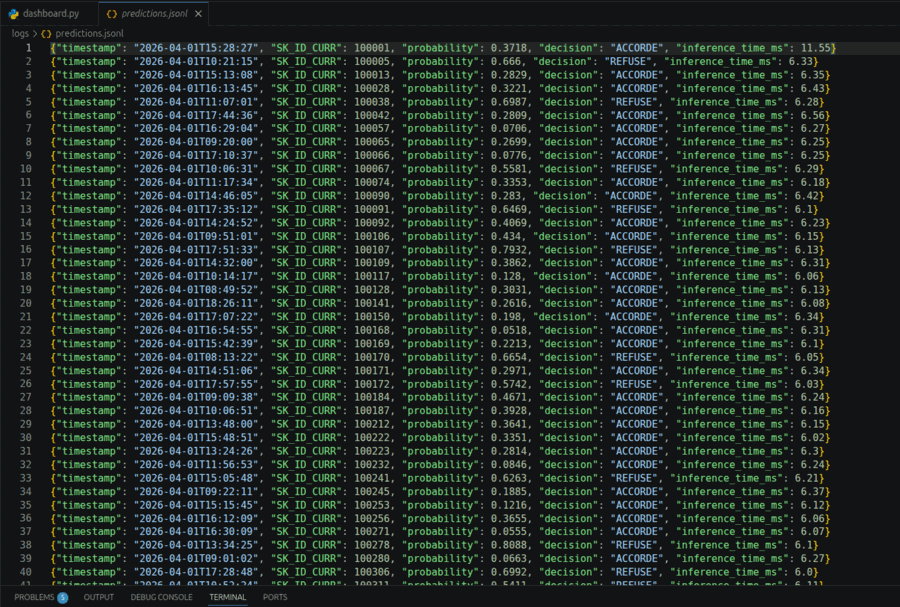
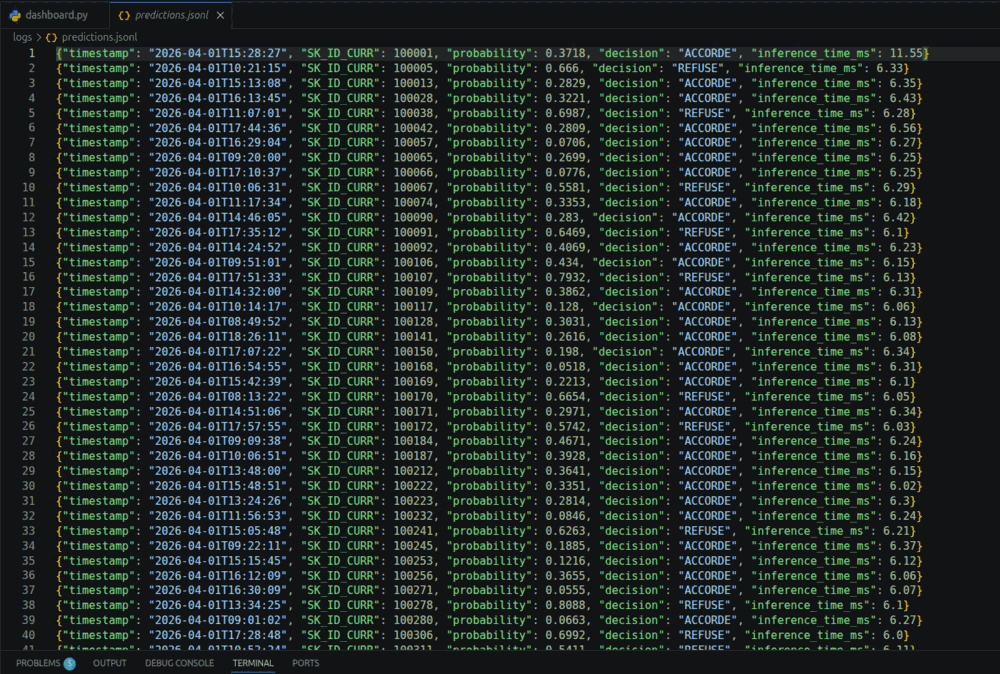
feat(projets): une image par projet, tirée du livrable d'origine (#17)
Six projets sur neuf n'affichaient rien. Chaque carte porte désormais une
figure ou une capture venue du projet lui-même : nuage surface/consommation
pour Seattle Energy, beeswarm SHAP pour TechNova, runs MLflow triés par coût
métier pour Prêt à Dépenser, tableau de bord du pipeline pour CheckItAI,
courbes de récompense DQN pour Astro Dynamics, triptyque de segmentation pour
Fashion-Insta. Rien n'est dessiné pour le site.

Les couvertures sont produites en 1200x500, le rapport que la feuille de style
impose : le cadrage se décide à la fabrication, plus au navigateur, et ne
change plus d'une largeur d'écran à l'autre.

tools/images.json note pour chaque image son projet, sa figure, son cadrage ;
tools/build_images.py applique la recette. Les sources vivant hors du dépôt,
le script signale celles qu'il ne trouve pas au lieu de s'arrêter.

Au passage :
- toutes les images portent width et height, donc la page ne saute plus au
  chargement des captures ;
- passage en WebP là où il gagne, PNG quantifié pour la capture de logs, où
  il gagne au contraire de 50 Ko ;
- un portrait en tête du panneau de faits, rond en Standard, à angle vif en
  Game.

diff --git a/index.html b/index.html
@@ -468,6 +468,10 @@ document.documentElement.classList.add('js');
   .about-grid { display: grid; grid-template-columns: 1.5fr 1fr; gap: 46px; align-items: start; }
   .about-grid .lead { font-size: 1.22rem; color: var(--ink); }
   .about-grid p + p { margin-top: 15px; }
+  .ident { display: flex; align-items: center; gap: 15px; padding: 20px 24px; border-bottom: 1px solid var(--border); }
+  .ident img { width: 74px; height: 74px; flex: none; object-fit: cover; border: 1px solid var(--border-2); filter: saturate(.9); }
+  .ident .nm { color: var(--ink); font-weight: 700; font-size: 15.5px; }
+  .ident .rl { display: block; margin-top: 3px; font-family: var(--font-mono); font-size: 11.5px; letter-spacing: .04em; color: var(--ember); }
   .facts { list-style: none; margin: 0; padding: 24px; display: grid; gap: 15px; }
   .facts li { display: flex; gap: 12px; font-size: 14.5px; }
   .facts svg { width: 17px; height: 17px; color: var(--ember); flex: none; margin-top: 3px; }
@@ -499,13 +503,13 @@ document.documentElement.classList.add('js');
   .tags { display: flex; flex-wrap: wrap; gap: 7px; margin-top: 16px; }
   .tag { font-family: var(--font-mono); font-size: 11.5px; color: var(--ink-dim); background: var(--surface-2); border: 1px solid var(--border); padding: 4px 9px; }
   .cover { margin-top: 16px; border: 1px solid var(--border); overflow: hidden; filter: saturate(.8) contrast(1.02); }
-  .cover img { width: 100%; height: 158px; object-fit: cover; object-position: top center; }
+  .cover img { display: block; width: 100%; height: auto; aspect-ratio: 12 / 5; object-fit: cover; }
   .proj-links { display: flex; gap: 16px; margin-top: 18px; padding-top: 16px; border-top: 1px solid var(--border); }
   .proj-links a { display: inline-flex; align-items: center; gap: 6px; font-family: var(--font-mono); font-size: 12px; letter-spacing: .06em; text-transform: uppercase; color: var(--ink-dim); }
   .proj-links a:hover { color: var(--ember); }
   .proj-links svg { width: 14px; height: 14px; }
   .shot { border: 1px solid var(--border); overflow: hidden; background: var(--surface-2); filter: saturate(.85); }
-  .shot img { width: 100%; }
+  .shot img { display: block; width: 100%; height: auto; }
 
   /* ---------- PROJET PHARE ---------- */
   .flag { padding: 0; }
@@ -988,6 +992,8 @@ document.documentElement.classList.add('js');
   /* Une capture à angles vifs dans une carte arrondie trahit le montage. */
   html.fx-standard .cover,
   html.fx-standard .shot { border-radius: 9px; }
+  /* Le mode Game garde l'angle vif de son HUD, le Standard arrondit. */
+  html.fx-standard .ident img { border-radius: 50%; }
   html.fx-standard .cmdk { box-shadow: var(--sh-2); }
   html.fx-standard .sec-head .idx {
     display: inline-block; padding: 3px 10px; border: 1px solid var(--border);
@@ -1524,7 +1530,12 @@ document.documentElement.classList.add('js');
           <p class="muted">J'ai couvert toute la chaîne : modélisation (scoring, classification, computer vision), industrialisation MLOps (API, Docker, CI/CD, monitoring de drift) et systèmes GenAI (RAG, évaluation LLM).</p>
           <p class="muted">Ma conviction : un modèle ne vaut que <b>servi, surveillé et maintenable</b>. La valeur naît en production, pas dans le notebook. Disponible en freelance ou en CDI sur les sujets MLOps et LLMOps, les plus demandés de 2026.</p>
         </div>
-        <div class="panel"><ul class="facts">
+        <div class="panel">
+          <div class="ident">
+            <img src="assets/portrait-clement-reboul.webp" width="240" height="240" alt="Portrait de Clément Reboul" loading="lazy" decoding="async">
+            <div><span class="nm">Clément Reboul</span><span class="rl">AI Engineer · MLOps &amp; GenAI</span></div>
+          </div>
+          <ul class="facts">
           <li><svg viewBox="0 0 24 24" fill="none" stroke="currentColor" stroke-width="2"><path d="M20 6L9 17l-5-5"/></svg><span><b>Disponibilité</b> - freelance ou CDI, MLOps / GenAI</span></li>
           <li><svg viewBox="0 0 24 24" fill="none" stroke="currentColor" stroke-width="2"><path d="M20 6L9 17l-5-5"/></svg><span><b>Expérience</b> - 5 ans en dev web, dont lead dev</span></li>
           <li><svg viewBox="0 0 24 24" fill="none" stroke="currentColor" stroke-width="2"><path d="M20 6L9 17l-5-5"/></svg><span><b>Stack</b> - Python, FastAPI, Docker, MLflow, LangChain</span></li>
@@ -1609,7 +1620,7 @@ document.documentElement.classList.add('js');
                 <a href="#projet-phare"><svg viewBox="0 0 24 24" fill="none" stroke="currentColor" stroke-width="2"><path d="M5 12h14M13 6l6 6-6 6"/></svg> Détails</a>
               </div>
             </div>
-            <div class="shot"><img src="assets/mlops-dashboard.png" alt="Dashboard Streamlit de monitoring : distribution des scores, décisions, latence." loading="lazy"></div>
+            <div class="shot"><img src="assets/mlops-dashboard.webp" width="1200" height="438" alt="Dashboard Streamlit de monitoring : distribution des scores, décisions, latence." loading="lazy" decoding="async"></div>
           </div>
         </article>
 
@@ -1618,6 +1629,7 @@ document.documentElement.classList.add('js');
           <h3>Seattle Energy</h3><p class="role">Énergie &amp; CO2 des bâtiments - API déployée</p>
           <p class="desc">Prédiction multi-cibles : consommation énergétique (Random Forest, R² 0,73) et émissions CO2 (LightGBM, R² 0,92) des bâtiments de Seattle. Modèles servis par une API FastAPI conteneurisée et déployée sur Hugging Face Spaces.</p>
           <div class="tags"><span class="tag">Random Forest</span><span class="tag">LightGBM</span><span class="tag">FastAPI</span><span class="tag">Docker</span></div>
+          <div class="cover"><img src="assets/seattle-energy.webp" width="1200" height="500" alt="Surface des bâtiments et consommation d'énergie en échelle logarithmique : un point par bâtiment, coloré par ses émissions de CO2." loading="lazy" decoding="async"></div>
           <div class="proj-links">
             <a href="https://github.com/clementRbl/deploy-ml" target="_blank" rel="noopener"><svg viewBox="0 0 24 24" fill="currentColor"><path d="M12 2C6.48 2 2 6.58 2 12.25c0 4.53 2.87 8.37 6.84 9.73.5.09.68-.22.68-.49v-1.7c-2.78.62-3.37-1.36-3.37-1.36-.45-1.18-1.11-1.49-1.11-1.49-.91-.64.07-.62.07-.62 1 .07 1.53 1.06 1.53 1.06.9 1.58 2.36 1.12 2.93.86.09-.67.35-1.12.63-1.38-2.22-.26-4.56-1.14-4.56-5.07 0-1.12.39-2.03 1.03-2.75-.1-.26-.45-1.3.1-2.71 0 0 .84-.27 2.75 1.05a9.3 9.3 0 015 0c1.91-1.32 2.75-1.05 2.75-1.05.55 1.41.2 2.45.1 2.71.64.72 1.03 1.63 1.03 2.75 0 3.94-2.34 4.81-4.57 5.06.36.32.68.94.68 1.9v2.82c0 .27.18.59.69.49A10.02 10.02 0 0022 12.25C22 6.58 17.52 2 12 2z"/></svg> Code</a>
             <a href="https://clementrbl-deploy-ml.hf.space/docs" target="_blank" rel="noopener"><svg viewBox="0 0 24 24" fill="none" stroke="currentColor" stroke-width="2"><path d="M15 3h6v6M10 14L21 3M18 13v6a2 2 0 01-2 2H5a2 2 0 01-2-2V8a2 2 0 012-2h6"/></svg> API</a>
@@ -1630,6 +1642,7 @@ document.documentElement.classList.add('js');
           <h3>TechNova</h3><p class="role">Attrition RH - causes de démission</p>
           <p class="desc">HR analytics pour une ESN de 1 470 salariés (turnover 16 %) : classification LightGBM (ROC-AUC 0,80) et interprétation des facteurs de départ par SHAP, du diagnostic métier aux recommandations.</p>
           <div class="tags"><span class="tag">LightGBM</span><span class="tag">SHAP</span><span class="tag">scikit-learn</span></div>
+          <div class="cover"><img src="assets/technova-shap.webp" width="1200" height="500" alt="Graphique SHAP : heures supplémentaires, participation au PEE et satisfaction globale dominent la probabilité de départ." loading="lazy" decoding="async"></div>
           <div class="proj-links"><a href="https://github.com/clementRbl/TechNova-Partners" target="_blank" rel="noopener"><svg viewBox="0 0 24 24" fill="currentColor"><path d="M12 2C6.48 2 2 6.58 2 12.25c0 4.53 2.87 8.37 6.84 9.73.5.09.68-.22.68-.49v-1.7c-2.78.62-3.37-1.36-3.37-1.36-.45-1.18-1.11-1.49-1.11-1.49-.91-.64.07-.62.07-.62 1 .07 1.53 1.06 1.53 1.06.9 1.58 2.36 1.12 2.93.86.09-.67.35-1.12.63-1.38-2.22-.26-4.56-1.14-4.56-5.07 0-1.12.39-2.03 1.03-2.75-.1-.26-.45-1.3.1-2.71 0 0 .84-.27 2.75 1.05a9.3 9.3 0 015 0c1.91-1.32 2.75-1.05 2.75-1.05.55 1.41.2 2.45.1 2.71.64.72 1.03 1.63 1.03 2.75 0 3.94-2.34 4.81-4.57 5.06.36.32.68.94.68 1.9v2.82c0 .27.18.59.69.49A10.02 10.02 0 0022 12.25C22 6.58 17.52 2 12 2z"/></svg> Code</a></div>
         </article>
 
@@ -1638,7 +1651,7 @@ document.documentElement.classList.add('js');
           <h3>Puls<span class="dash">-</span>Events</h3><p class="role">Chatbot RAG d'événements culturels</p>
           <p class="desc">RAG de bout en bout : ingestion (16 000+ événements), vectorisation Faiss, chaîne LangChain + Mistral avec garde-fous anti-hallucination, API FastAPI et évaluation Ragas.</p>
           <div class="tags"><span class="tag">LangChain</span><span class="tag">Faiss</span><span class="tag">Mistral</span><span class="tag">Ragas</span></div>
-          <div class="cover"><img src="assets/rag-architecture.png" alt="Architecture RAG Puls-Events : ingestion, vectorisation Faiss, chaîne LangChain + Mistral, API." loading="lazy"></div>
+          <div class="cover"><img src="assets/rag-architecture.webp" width="1200" height="500" alt="Architecture RAG Puls-Events : ingestion, vectorisation Faiss, chaîne LangChain + Mistral, API." loading="lazy" decoding="async"></div>
           <div class="proj-links"><a href="https://github.com/clementRbl/pull-events" target="_blank" rel="noopener"><svg viewBox="0 0 24 24" fill="currentColor"><path d="M12 2C6.48 2 2 6.58 2 12.25c0 4.53 2.87 8.37 6.84 9.73.5.09.68-.22.68-.49v-1.7c-2.78.62-3.37-1.36-3.37-1.36-.45-1.18-1.11-1.49-1.11-1.49-.91-.64.07-.62.07-.62 1 .07 1.53 1.06 1.53 1.06.9 1.58 2.36 1.12 2.93.86.09-.67.35-1.12.63-1.38-2.22-.26-4.56-1.14-4.56-5.07 0-1.12.39-2.03 1.03-2.75-.1-.26-.45-1.3.1-2.71 0 0 .84-.27 2.75 1.05a9.3 9.3 0 015 0c1.91-1.32 2.75-1.05 2.75-1.05.55 1.41.2 2.45.1 2.71.64.72 1.03 1.63 1.03 2.75 0 3.94-2.34 4.81-4.57 5.06.36.32.68.94.68 1.9v2.82c0 .27.18.59.69.49A10.02 10.02 0 0022 12.25C22 6.58 17.52 2 12 2z"/></svg> Code</a></div>
         </article>
 
@@ -1647,7 +1660,7 @@ document.documentElement.classList.add('js');
           <h3>BrainScanAI</h3><p class="role">Détection de tumeurs sur IRM</p>
           <p class="desc">Apprentissage semi-supervisé sur un large corpus non labellisé : features ResNet-50, clustering (GMM), pré-entraînement sur labels faibles. Audit de fuite (dédup MD5) - recall cancer 0,90–1,00.</p>
           <div class="tags"><span class="tag">PyTorch</span><span class="tag">ResNet-50</span><span class="tag">clustering</span><span class="tag">SSL</span></div>
-          <div class="cover"><img src="assets/brainscan-comparison.png" alt="Comparaison supervisé vs semi-supervisé : accuracy, F1, AUC, recall cancer." loading="lazy"></div>
+          <div class="cover"><img src="assets/brainscan-comparison.webp" width="1200" height="500" alt="Matrices de confusion des deux phases et courbes ROC : supervisé AUC 0,99, semi-supervisé AUC 0,98." loading="lazy" decoding="async"></div>
           <div class="proj-links"><a href="https://github.com/clementRbl/curelytics-ia" target="_blank" rel="noopener"><svg viewBox="0 0 24 24" fill="currentColor"><path d="M12 2C6.48 2 2 6.58 2 12.25c0 4.53 2.87 8.37 6.84 9.73.5.09.68-.22.68-.49v-1.7c-2.78.62-3.37-1.36-3.37-1.36-.45-1.18-1.11-1.49-1.11-1.49-.91-.64.07-.62.07-.62 1 .07 1.53 1.06 1.53 1.06.9 1.58 2.36 1.12 2.93.86.09-.67.35-1.12.63-1.38-2.22-.26-4.56-1.14-4.56-5.07 0-1.12.39-2.03 1.03-2.75-.1-.26-.45-1.3.1-2.71 0 0 .84-.27 2.75 1.05a9.3 9.3 0 015 0c1.91-1.32 2.75-1.05 2.75-1.05.55 1.41.2 2.45.1 2.71.64.72 1.03 1.63 1.03 2.75 0 3.94-2.34 4.81-4.57 5.06.36.32.68.94.68 1.9v2.82c0 .27.18.59.69.49A10.02 10.02 0 0022 12.25C22 6.58 17.52 2 12 2z"/></svg> Code</a></div>
         </article>
 
@@ -1656,6 +1669,7 @@ document.documentElement.classList.add('js');
           <h3>Prêt à Dépenser</h3><p class="role">Scoring crédit &amp; tracking MLflow</p>
           <p class="desc">Comparaison de 5 modèles en validation croisée, optimisation d'un coût métier asymétrique et du seuil, interprétabilité SHAP, tracking complet MLflow (params, métriques, registry).</p>
           <div class="tags"><span class="tag">LightGBM</span><span class="tag">MLflow</span><span class="tag">SHAP</span><span class="tag">scikit-learn</span></div>
+          <div class="cover"><img src="assets/pret-mlflow.webp" width="1200" height="500" alt="Interface MLflow : les runs comparés, triés par coût métier, chacun avec son seuil et sa stratégie de validation croisée." loading="lazy" decoding="async"></div>
           <div class="proj-links"><a href="https://github.com/clementRbl/pret-a-depenser" target="_blank" rel="noopener"><svg viewBox="0 0 24 24" fill="currentColor"><path d="M12 2C6.48 2 2 6.58 2 12.25c0 4.53 2.87 8.37 6.84 9.73.5.09.68-.22.68-.49v-1.7c-2.78.62-3.37-1.36-3.37-1.36-.45-1.18-1.11-1.49-1.11-1.49-.91-.64.07-.62.07-.62 1 .07 1.53 1.06 1.53 1.06.9 1.58 2.36 1.12 2.93.86.09-.67.35-1.12.63-1.38-2.22-.26-4.56-1.14-4.56-5.07 0-1.12.39-2.03 1.03-2.75-.1-.26-.45-1.3.1-2.71 0 0 .84-.27 2.75 1.05a9.3 9.3 0 015 0c1.91-1.32 2.75-1.05 2.75-1.05.55 1.41.2 2.45.1 2.71.64.72 1.03 1.63 1.03 2.75 0 3.94-2.34 4.81-4.57 5.06.36.32.68.94.68 1.9v2.82c0 .27.18.59.69.49A10.02 10.02 0 0022 12.25C22 6.58 17.52 2 12 2z"/></svg> Code</a></div>
         </article>
 
@@ -1664,6 +1678,7 @@ document.documentElement.classList.add('js');
           <h3>CheckItAI</h3><p class="role">Pipeline d'acquisition multimodale</p>
           <p class="desc">Pipeline ETL reproductible (texte + image) pour un détecteur de fake news : extraction automatisée, transformation, orchestration Airflow, chargement PostgreSQL, dashboard KPI et plan de monitoring.</p>
           <div class="tags"><span class="tag">Airflow</span><span class="tag">PostgreSQL</span><span class="tag">Docker</span><span class="tag">Streamlit</span></div>
+          <div class="cover"><img src="assets/checkitai-dashboard.webp" width="1200" height="500" alt="Tableau de bord du pipeline : 29 publications retenues, 90 % de validité, exécution complète en 0,99 seconde." loading="lazy" decoding="async"></div>
           <div class="proj-links"><a href="https://github.com/clementRbl/checkitai" target="_blank" rel="noopener"><svg viewBox="0 0 24 24" fill="currentColor"><path d="M12 2C6.48 2 2 6.58 2 12.25c0 4.53 2.87 8.37 6.84 9.73.5.09.68-.22.68-.49v-1.7c-2.78.62-3.37-1.36-3.37-1.36-.45-1.18-1.11-1.49-1.11-1.49-.91-.64.07-.62.07-.62 1 .07 1.53 1.06 1.53 1.06.9 1.58 2.36 1.12 2.93.86.09-.67.35-1.12.63-1.38-2.22-.26-4.56-1.14-4.56-5.07 0-1.12.39-2.03 1.03-2.75-.1-.26-.45-1.3.1-2.71 0 0 .84-.27 2.75 1.05a9.3 9.3 0 015 0c1.91-1.32 2.75-1.05 2.75-1.05.55 1.41.2 2.45.1 2.71.64.72 1.03 1.63 1.03 2.75 0 3.94-2.34 4.81-4.57 5.06.36.32.68.94.68 1.9v2.82c0 .27.18.59.69.49A10.02 10.02 0 0022 12.25C22 6.58 17.52 2 12 2z"/></svg> Code</a></div>
         </article>
 
@@ -1672,6 +1687,7 @@ document.documentElement.classList.add('js');
           <h3>Astro Dynamics</h3><p class="role">Agent RL - atterrisseur lunaire</p>
           <p class="desc">Entraînement d'un agent DQN sur LunarLander (Gymnasium), architecture client/serveur (API FastAPI + visualisation Streamlit) et enregistrement vidéo des atterrissages réussis.</p>
           <div class="tags"><span class="tag">Gymnasium</span><span class="tag">DQN</span><span class="tag">stable-baselines3</span></div>
+          <div class="cover"><img src="assets/astro-rewards.webp" width="1200" height="500" alt="Courbes de récompense des quatre expériences DQN : seule la quatrième, à un million de pas, franchit l'objectif de 200." loading="lazy" decoding="async"></div>
           <div class="proj-links"><a href="https://github.com/clementRbl/astro-dynamics" target="_blank" rel="noopener"><svg viewBox="0 0 24 24" fill="currentColor"><path d="M12 2C6.48 2 2 6.58 2 12.25c0 4.53 2.87 8.37 6.84 9.73.5.09.68-.22.68-.49v-1.7c-2.78.62-3.37-1.36-3.37-1.36-.45-1.18-1.11-1.49-1.11-1.49-.91-.64.07-.62.07-.62 1 .07 1.53 1.06 1.53 1.06.9 1.58 2.36 1.12 2.93.86.09-.67.35-1.12.63-1.38-2.22-.26-4.56-1.14-4.56-5.07 0-1.12.39-2.03 1.03-2.75-.1-.26-.45-1.3.1-2.71 0 0 .84-.27 2.75 1.05a9.3 9.3 0 015 0c1.91-1.32 2.75-1.05 2.75-1.05.55 1.41.2 2.45.1 2.71.64.72 1.03 1.63 1.03 2.75 0 3.94-2.34 4.81-4.57 5.06.36.32.68.94.68 1.9v2.82c0 .27.18.59.69.49A10.02 10.02 0 0022 12.25C22 6.58 17.52 2 12 2z"/></svg> Code</a></div>
         </article>
 
@@ -1680,6 +1696,7 @@ document.documentElement.classList.add('js');
           <h3>Fashion<span class="dash">-</span>Insta</h3><p class="role">POC de segmentation de vêtements</p>
           <p class="desc">Preuve de concept de segmentation d'images de vêtements à partir d'un modèle pré-entraîné (Hugging Face) : évaluation par IoU, visualisations, et estimation de coût « build vs buy » pour cadrer la faisabilité.</p>
           <div class="tags"><span class="tag">Computer Vision</span><span class="tag">Segmentation</span><span class="tag">Hugging Face</span><span class="tag">POC</span></div>
+          <div class="cover"><img src="assets/fashion-segmentation.webp" width="1200" height="500" alt="Une photo de vêtement, son masque de segmentation par classe et la superposition des deux." loading="lazy" decoding="async"></div>
         </article>
 
       </div>
@@ -1713,7 +1730,7 @@ document.documentElement.classList.add('js');
               <a class="btn btn-ghost" href="https://clementrbl-credit-scoring-api.hf.space/docs" target="_blank" rel="noopener">Tester l'API</a>
             </div>
           </div>
-          <div class="shot"><img src="assets/mlops-logs.png" alt="Journalisation JSONL : chaque prédiction enregistre timestamp, id client, probabilité, décision, temps d'inférence." loading="lazy"></div>
+          <div class="shot"><img src="assets/mlops-logs.png" width="1000" height="674" alt="Journalisation JSONL : chaque prédiction enregistre timestamp, id client, probabilité, décision, temps d'inférence." loading="lazy" decoding="async"></div>
         </div>
         <div class="tryout">
           <h3>Essayez le modèle</h3>

diff --git a/tools/build_images.py b/tools/build_images.py
@@ -1,0 +1,166 @@
+#!/usr/bin/env python3
+"""Fabrique les images du portfolio à partir des livrables d'origine.
+
+Le site n'a pas d'étape de build : les fichiers d'assets/ sont servis tels
+quels. Ce script existe pour que chaque image reste traçable - on sait de quel
+projet, de quel notebook et de quelle figure elle sort - et pour que la même
+recette produise deux fois le même fichier.
+
+    python3 tools/build_images.py                 # tout sauf les figures Plotly
+    uv run --with plotly --with kaleido \
+        python3 tools/build_images.py             # tout
+
+Les sources vivent hors du dépôt, dans les projets eux-mêmes (Livrables/), donc
+le script ne tourne que sur la machine qui les héberge. Une source absente est
+signalée et sautée : le reste se construit quand même.
+
+Recette d'une entrée de tools/images.json :
+
+    from   file      un fichier image
+           notebook  la n-ième sortie image/png d'un .ipynb
+           plotly    la n-ième figure Plotly d'un .ipynb, rendue en PNG
+    crop   [l, h, ancrage] ou [l, h, ancrage, dx, dy] : découpe appliquée à
+           la source, avant redimension
+    fit    cover (défaut) remplit le cadre, contain fait tenir la figure
+           entière et complète avec la couleur de fond de la figure
+    size   [l, h] du fichier produit
+    colors palette réduite - pour les captures de texte, servies en PNG
+
+ImageMagick fait le travail d'image : c'est un outil système, pas une
+dépendance Python, ce qui garde le dépôt sans rien à installer.
+"""
+import base64, json, re, shutil, struct, subprocess, sys, tempfile
+from pathlib import Path
+
+ROOT = Path(__file__).resolve().parent.parent
+LIVRABLES = ROOT.parent.parent          # portfolio/ -> falDatacorps/ -> Livrables/
+ASSETS = ROOT / 'assets'
+QUALITY = 82                            # WebP : au-delà, le poids monte sans gain visible
+
+
+def convert(*args):
+    exe = shutil.which('magick') or shutil.which('convert')
+    if not exe:
+        sys.exit('ImageMagick est requis : sudo apt install imagemagick')
+    cmd = [exe, 'convert'] if exe.endswith('magick') else [exe]
+    subprocess.run(cmd + [str(a) for a in args], check=True)
+
+
+def png_size(raw):
+    return struct.unpack('>II', raw[16:24])
+
+
+def notebook_pngs(path):
+    """Sorties image/png d'un notebook, dans l'ordre d'apparition."""
+    nb = json.loads(path.read_text(encoding='utf-8'))
+    out = []
+    for cell in nb.get('cells', []):
+        for o in cell.get('outputs', []):
+            b64 = o.get('data', {}).get('image/png')
+            if b64:
+                out.append(base64.b64decode(b64))
+    return out
+
+
+def plotly_pngs(path, width, height):
+    """Figures Plotly d'un notebook, re-rendues en PNG à la taille demandée.
+
+    Les notebooks stockent la figure en JSON, pas en image : elle est donc
+    régénérée à partir des données d'origine, pas recadrée depuis une capture.
+    Le template embarqué est écarté - il embarque des types de traces que les
+    versions récentes de Plotly ne reconnaissent plus.
+    """
+    try:
+        import plotly.graph_objects as go, plotly.io as pio
+    except ImportError:
+        return None
+    nb = json.loads(path.read_text(encoding='utf-8'))
+    out = []
+    with tempfile.TemporaryDirectory() as tmp:
+        for cell in nb.get('cells', []):
+            for o in cell.get('outputs', []):
+                spec = o.get('data', {}).get('application/vnd.plotly.v1+json')
+                if not spec:
+                    continue
+                layout = {k: v for k, v in spec.get('layout', {}).items() if k != 'template'}
+                fig = go.Figure(data=spec.get('data', []), layout=layout)
+                fig.update_layout(width=width, height=height, template='plotly_white')
+                f = Path(tmp) / f'{len(out)}.png'
+                pio.write_image(fig, f, scale=1)
+                out.append(f.read_bytes())
+    return out
+
+
+def resolve(src):
+    p = Path(src).expanduser()
+    return p if p.is_absolute() else LIVRABLES / src
+
+
+def build(item, tmpdir):
+    w, h = item['size']
+    kind, src = item['from'], resolve(item['src'])
+    if not src.exists():
+        return f"source absente : {item['src']}"
+
+    if kind == 'file':
+        raw = src.read_bytes()
+    else:
+        pool = notebook_pngs(src) if kind == 'notebook' else plotly_pngs(src, w, h)
+        if pool is None:
+            return 'Plotly absent - relancez avec : uv run --with plotly --with kaleido'
+        n = item['n']
+        if n > len(pool):
+            return f'figure {n} introuvable ({len(pool)} disponibles)'
+        raw = pool[n - 1]
+
+    stage = tmpdir / (item['out'] + '.png')
+    stage.write_bytes(raw)
+
+    args = [stage]
+    crop = item.get('crop')
+    if crop:
+        cw, ch, gravity = crop[:3]
+        dx, dy = (crop + [0, 0])[3:5] if len(crop) > 3 else (0, 0)
+        args += ['-gravity', gravity, '-crop', f'{cw}x{ch}+{dx}+{dy}', '+repage']
+    if item.get('fit') == 'contain':
+        # Fond prélevé sur la figure elle-même : les bandes ajoutées se
+        # confondent avec elle au lieu de trancher sur le panneau.
+        bg = subprocess.run(
+            [shutil.which('magick') or shutil.which('convert'), str(stage),
+             '-format', '%[pixel:p{0,0}]', 'info:'],
+            capture_output=True, text=True, check=True).stdout.strip()
+        args += ['-resize', f'{w}x{h}', '-background', bg,
+                 '-gravity', 'center', '-extent', f'{w}x{h}']
+    else:
+        args += ['-resize', f'{w}x{h}^', '-gravity', 'north',
+                 '-extent', f'{w}x{h}']
+    # Les captures de texte, à plat et peu colorées, pèsent moins en PNG
+    # quantifié qu'en WebP : le format se choisit donc par image.
+    if item.get('colors'):
+        args += ['-colors', str(item['colors'])]
+    args += ['-strip', '-quality', str(item.get('quality', QUALITY)),
+             ASSETS / item['out']]
+    convert(*args)
+    return None
+
+
+def main():
+    items = json.loads((ROOT / 'tools' / 'images.json').read_text(encoding='utf-8'))
+    ASSETS.mkdir(exist_ok=True)
+    ok = skipped = 0
+    with tempfile.TemporaryDirectory() as tmp:
+        for item in items:
+            err = build(item, Path(tmp))
+            if err:
+                skipped += 1
+                print(f'  !  {item["out"]:32s} {err}')
+                continue
+            ok += 1
+            f = ASSETS / item['out']
+            print(f'  ok {item["out"]:32s} {item["size"][0]}x{item["size"][1]}'
+                  f'  {f.stat().st_size / 1024:6.1f} Ko')
+    print(f'\n{ok} image(s) construite(s), {skipped} sautée(s)')
+
+
+if __name__ == '__main__':
+    main()

diff --git a/README.md b/README.md
@@ -15,6 +15,7 @@ Sert aussi de support commercial : la section **Prestations** liste des missions
 | `assets/` | Captures des projets, CV PDF, image de partage Open Graph |
 | `assets/search-index.json` | Index de recherche vectorielle de la palette (généré) |
 | `tools/build_index.py` | Génère l'index : TF-IDF + SVD tronquée sur `tools/corpus.json` |
+| `tools/build_images.py` | Fabrique les images d'`assets/` d'après `tools/images.json` |
 | `sitemap.xml` | Plan de site (à déclarer dans Google Search Console) |
 
 ## Lancer en local
@@ -62,6 +63,27 @@ Regénérer l'index après avoir modifié `tools/corpus.json` :
 ```bash
 python3 tools/build_index.py   # numpy requis
 ```
+
+## Les images
+
+Chaque capture vient d'un livrable réel : une figure de notebook, une capture
+d'interface, une sortie de pipeline. `tools/images.json` note, pour chacune, le
+projet et la figure d'origine, le cadrage et la taille produite ;
+`tools/build_images.py` applique la recette. Rien n'est dessiné pour le site.
+
+Les vignettes de projet sont toutes produites en 1200x500, le rapport que la
+feuille de style impose aux couvertures : le cadrage est donc décidé à la
+fabrication, jamais laissé au navigateur, et reste le même à toutes les
+largeurs d'écran.
+
+```bash
+# ImageMagick requis ; Plotly seulement pour les figures encore en JSON
+uv run --with plotly --with kaleido python3 tools/build_images.py
+```
+
+Les sources vivent dans les dépôts des projets, hors de celui-ci : le script ne
+tourne donc que sur une machine qui les héberge, et signale celles qu'il ne
+trouve pas au lieu de s'arrêter.
 
 ## Déploiement
 
